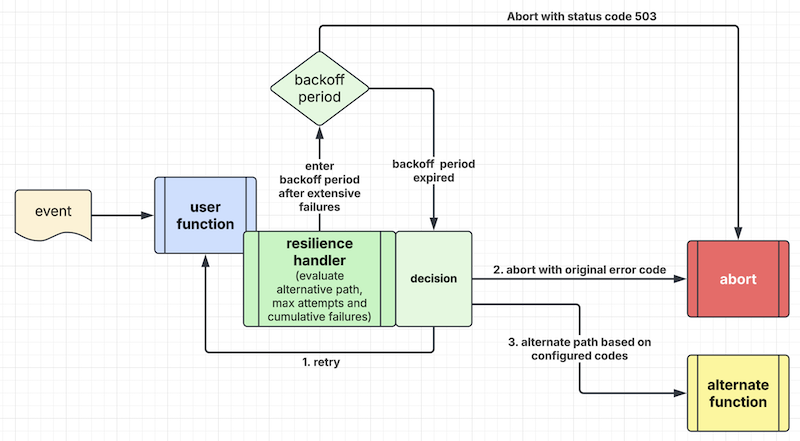
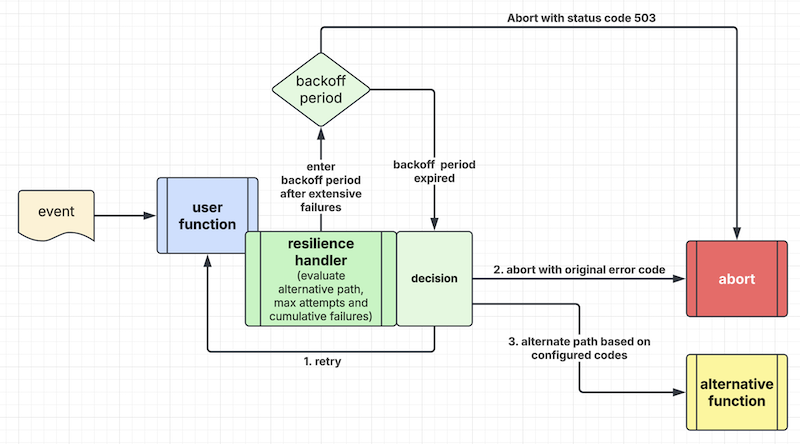
version 4.2.25

diff --git a/system/event-script-engine/src/main/java/com/accenture/services/Resilience4Flow.java b/system/event-script-engine/src/main/java/com/accenture/services/Resilience4Flow.java
@@ -32,7 +32,7 @@ import java.util.*;
  * attempts - this tells the handler how many attempts it has tried
  * status - you should map the error status code in this field
  * message - you should map the error message in this field
- * alternate (start-end, code, code) - the optional codes and range of status codes to tell the handler to reroute
+ * alternative (start-end, code, code) - the optional codes and range of status codes to tell the handler to reroute
  * delay - the delay in milliseconds before exercising retry or reroute. Minimum valued is 10 ms.
  *         Delay is skipped for the first retry. This slight delay is a protection mechanism.
  * <p>
@@ -67,7 +67,7 @@ public class Resilience4Flow implements TypedLambdaFunction<Map<String, Object>,
     private static final String ATTEMPT = "attempt";
     private static final String STATUS = "status";
     private static final String MESSAGE = "message";
-    private static final String ALTERNATE = "alternate";
+    private static final String ALTERNATIVE = "alternative";
     private static final String DELAY = "delay";
     private static final String CUMULATIVE = "cumulative";
     private static final String BACKOFF = "backoff";
@@ -121,9 +121,9 @@ public class Resilience4Flow implements TypedLambdaFunction<Map<String, Object>,
                 return result;
             }
         }
-        AlternatePath routing = null;
-        if (input.containsKey(ALTERNATE)) {
-            routing = new AlternatePath(String.valueOf(input.get(ALTERNATE)));
+        AlternativePath routing = null;
+        if (input.containsKey(ALTERNATIVE)) {
+            routing = new AlternativePath(String.valueOf(input.get(ALTERNATIVE)));
         }
         int maxAttempt = Math.max(1, util.str2int(String.valueOf(input.getOrDefault(MAX_ATTEMPTS, 1))));
         int attemptCount = Math.max(0, util.str2int(String.valueOf(input.getOrDefault(ATTEMPT, 0))));
@@ -144,7 +144,7 @@ public class Resilience4Flow implements TypedLambdaFunction<Map<String, Object>,
                 Thread.sleep(delay);
             }
             if (routing != null && routing.needReroute(status)) {
-                // tell the system to execute the alternate execution path
+                // tell the system to execute the alternative execution path
                 result.put(DECISION, 3);
             } else {
                 // otherwise, retry the original task
@@ -154,11 +154,11 @@ public class Resilience4Flow implements TypedLambdaFunction<Map<String, Object>,
         return result;
     }
 
-    private static class AlternatePath {
+    private static class AlternativePath {
         private final Set<Integer> statusCodes = new HashSet<>();
         private final List<Integer[]> statusRanges = new ArrayList<>();
 
-        public AlternatePath(String codes) {
+        public AlternativePath(String codes) {
             List<String> list = util.split(codes, ",");
             for (String item: list) {
                 var s = item.trim();

diff --git a/guides/CHAPTER-4.md b/guides/CHAPTER-4.md
@@ -1143,7 +1143,7 @@ The following parameters (input data mapping) define behavior for the handler:
  2. `attempts` - this tells the handler how many attempts it has tried
  3. `status` - you should map the error status code in this field
  4. `message` - you should map the error message in this field
- 5. `alternate` - the optional codes and range of status codes to tell the handler to reroute
+ 5. `alternative` - the optional codes and range of status codes to tell the handler to reroute
  6. `delay` - the delay in milliseconds before exercising retry or reroute. Minimum value is 10 ms.
               Delay is skipped for the first retry. This slight delay is a protection mechanism.
  
@@ -1184,7 +1184,7 @@ reaches the "backoff_trigger" threshold of 3. After that, all requests will be a
       - 'error.message -> message'
       - 'model.attempt -> attempt'
       - 'int(10) -> max_attempts'
-      - 'text(401, 403-404) -> alternate'
+      - 'text(401, 403-404) -> alternative'
       - 'file(text:/tmp/resilience/cumulative) -> cumulative'
       - 'file(text:/tmp/resilience/backoff) -> backoff'
       - 'int(3) -> backoff_trigger'
@@ -1203,7 +1203,7 @@ reaches the "backoff_trigger" threshold of 3. After that, all requests will be a
     next:
       - 'my.task'
       - 'abort.request'
-      - 'alternate.task'
+      - 'alternative.task'
 ```
 
 > *Note*: When the "backoff" feature is enabled, you should configure the resilience handler as a gatekeeper

diff --git a/CHANGELOG.md b/CHANGELOG.md
@@ -10,6 +10,21 @@ and this project adheres to [Semantic Versioning](https://semver.org/spec/v2.0.0
 > *Note*: Some version numbers may be skipped to align feature set with the Node.js version.
 
 ---
+## Version 4.2.25, 3/24/2025
+
+### Added
+
+N/A
+
+### Removed
+
+N/A
+
+### Changed
+
+Rename "alternate" parameter in resilience handler to "alternative"
+
+---
 ## Version 4.2.24, 3/24/2025
 
 ### Added
